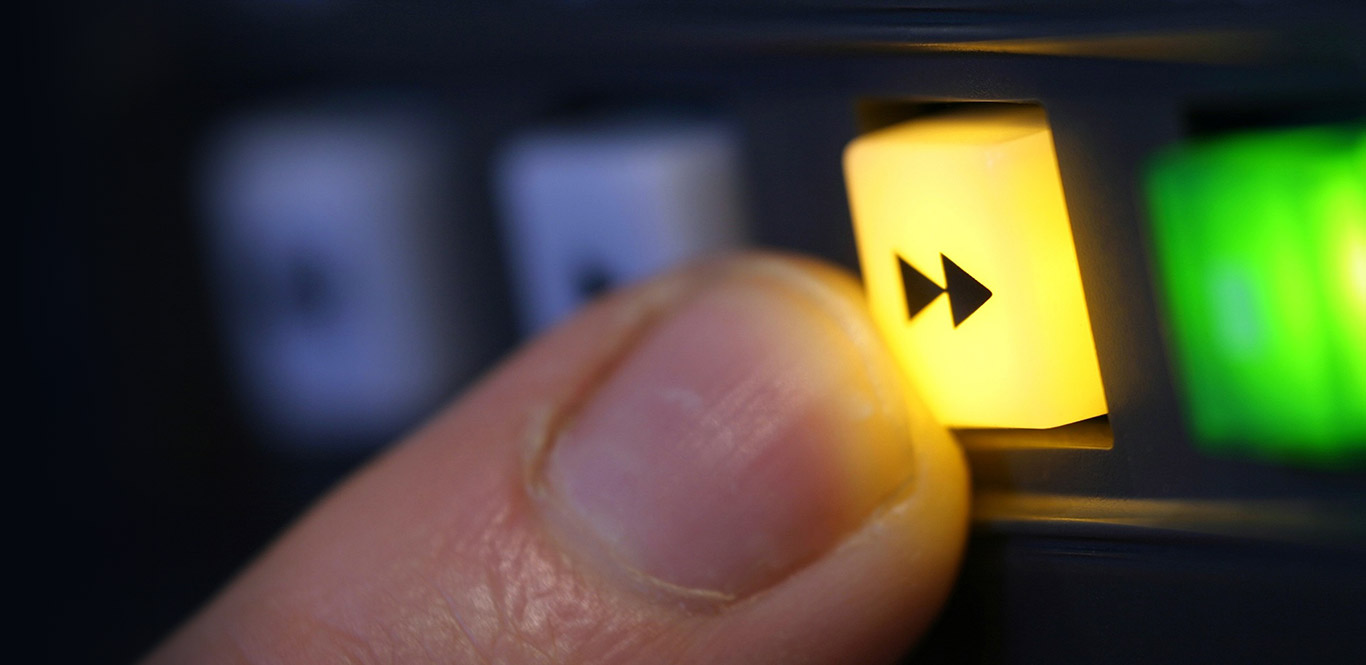
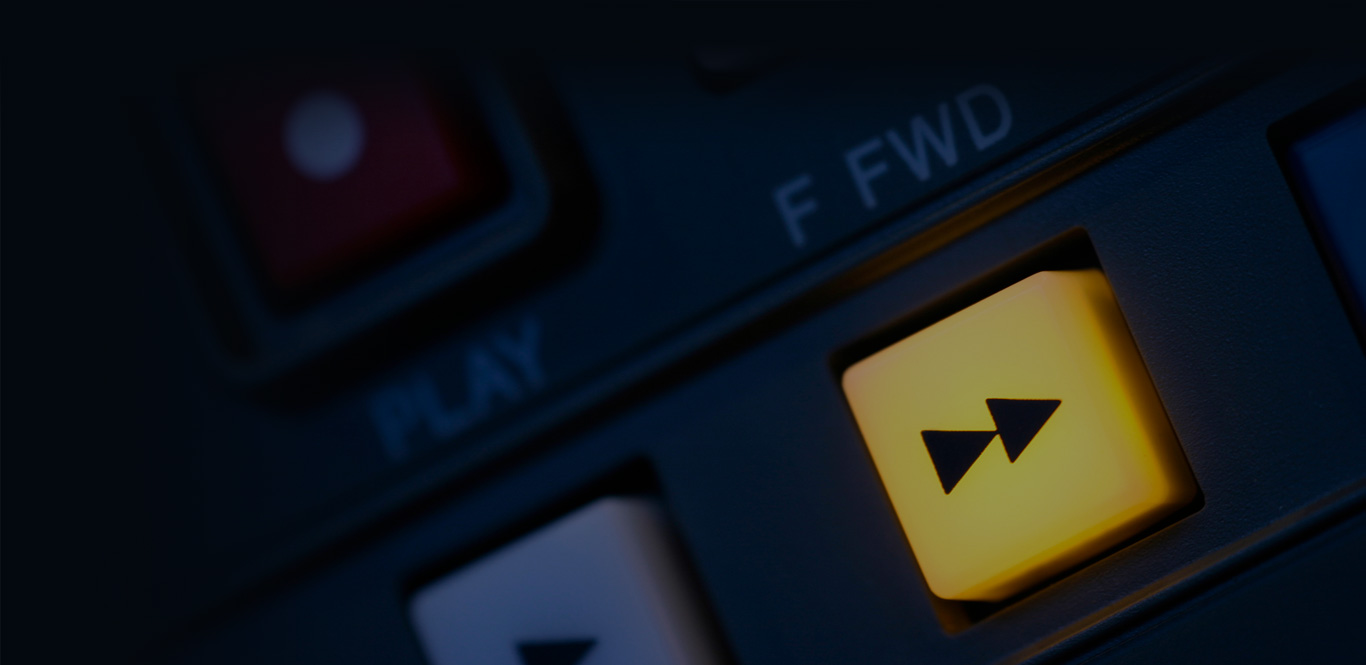
New background added.

diff --git a/wp-content/themes/teachnova/assets/less/app.less b/wp-content/themes/teachnova/assets/less/app.less
@@ -92,7 +92,7 @@ body {
    margin-bottom: 0;
    background-position: -700px;
    height: 450px;
-   background: url(/assets/img/background_transparency.jpg) #04080E no-repeat right;
+   background: url(/assets/img/background_transparency.jpg) #04080E no-repeat bottom right;
 
    @media (min-width: @screen-hs-min) {}
    @media (min-width: @screen-sm-min) {
